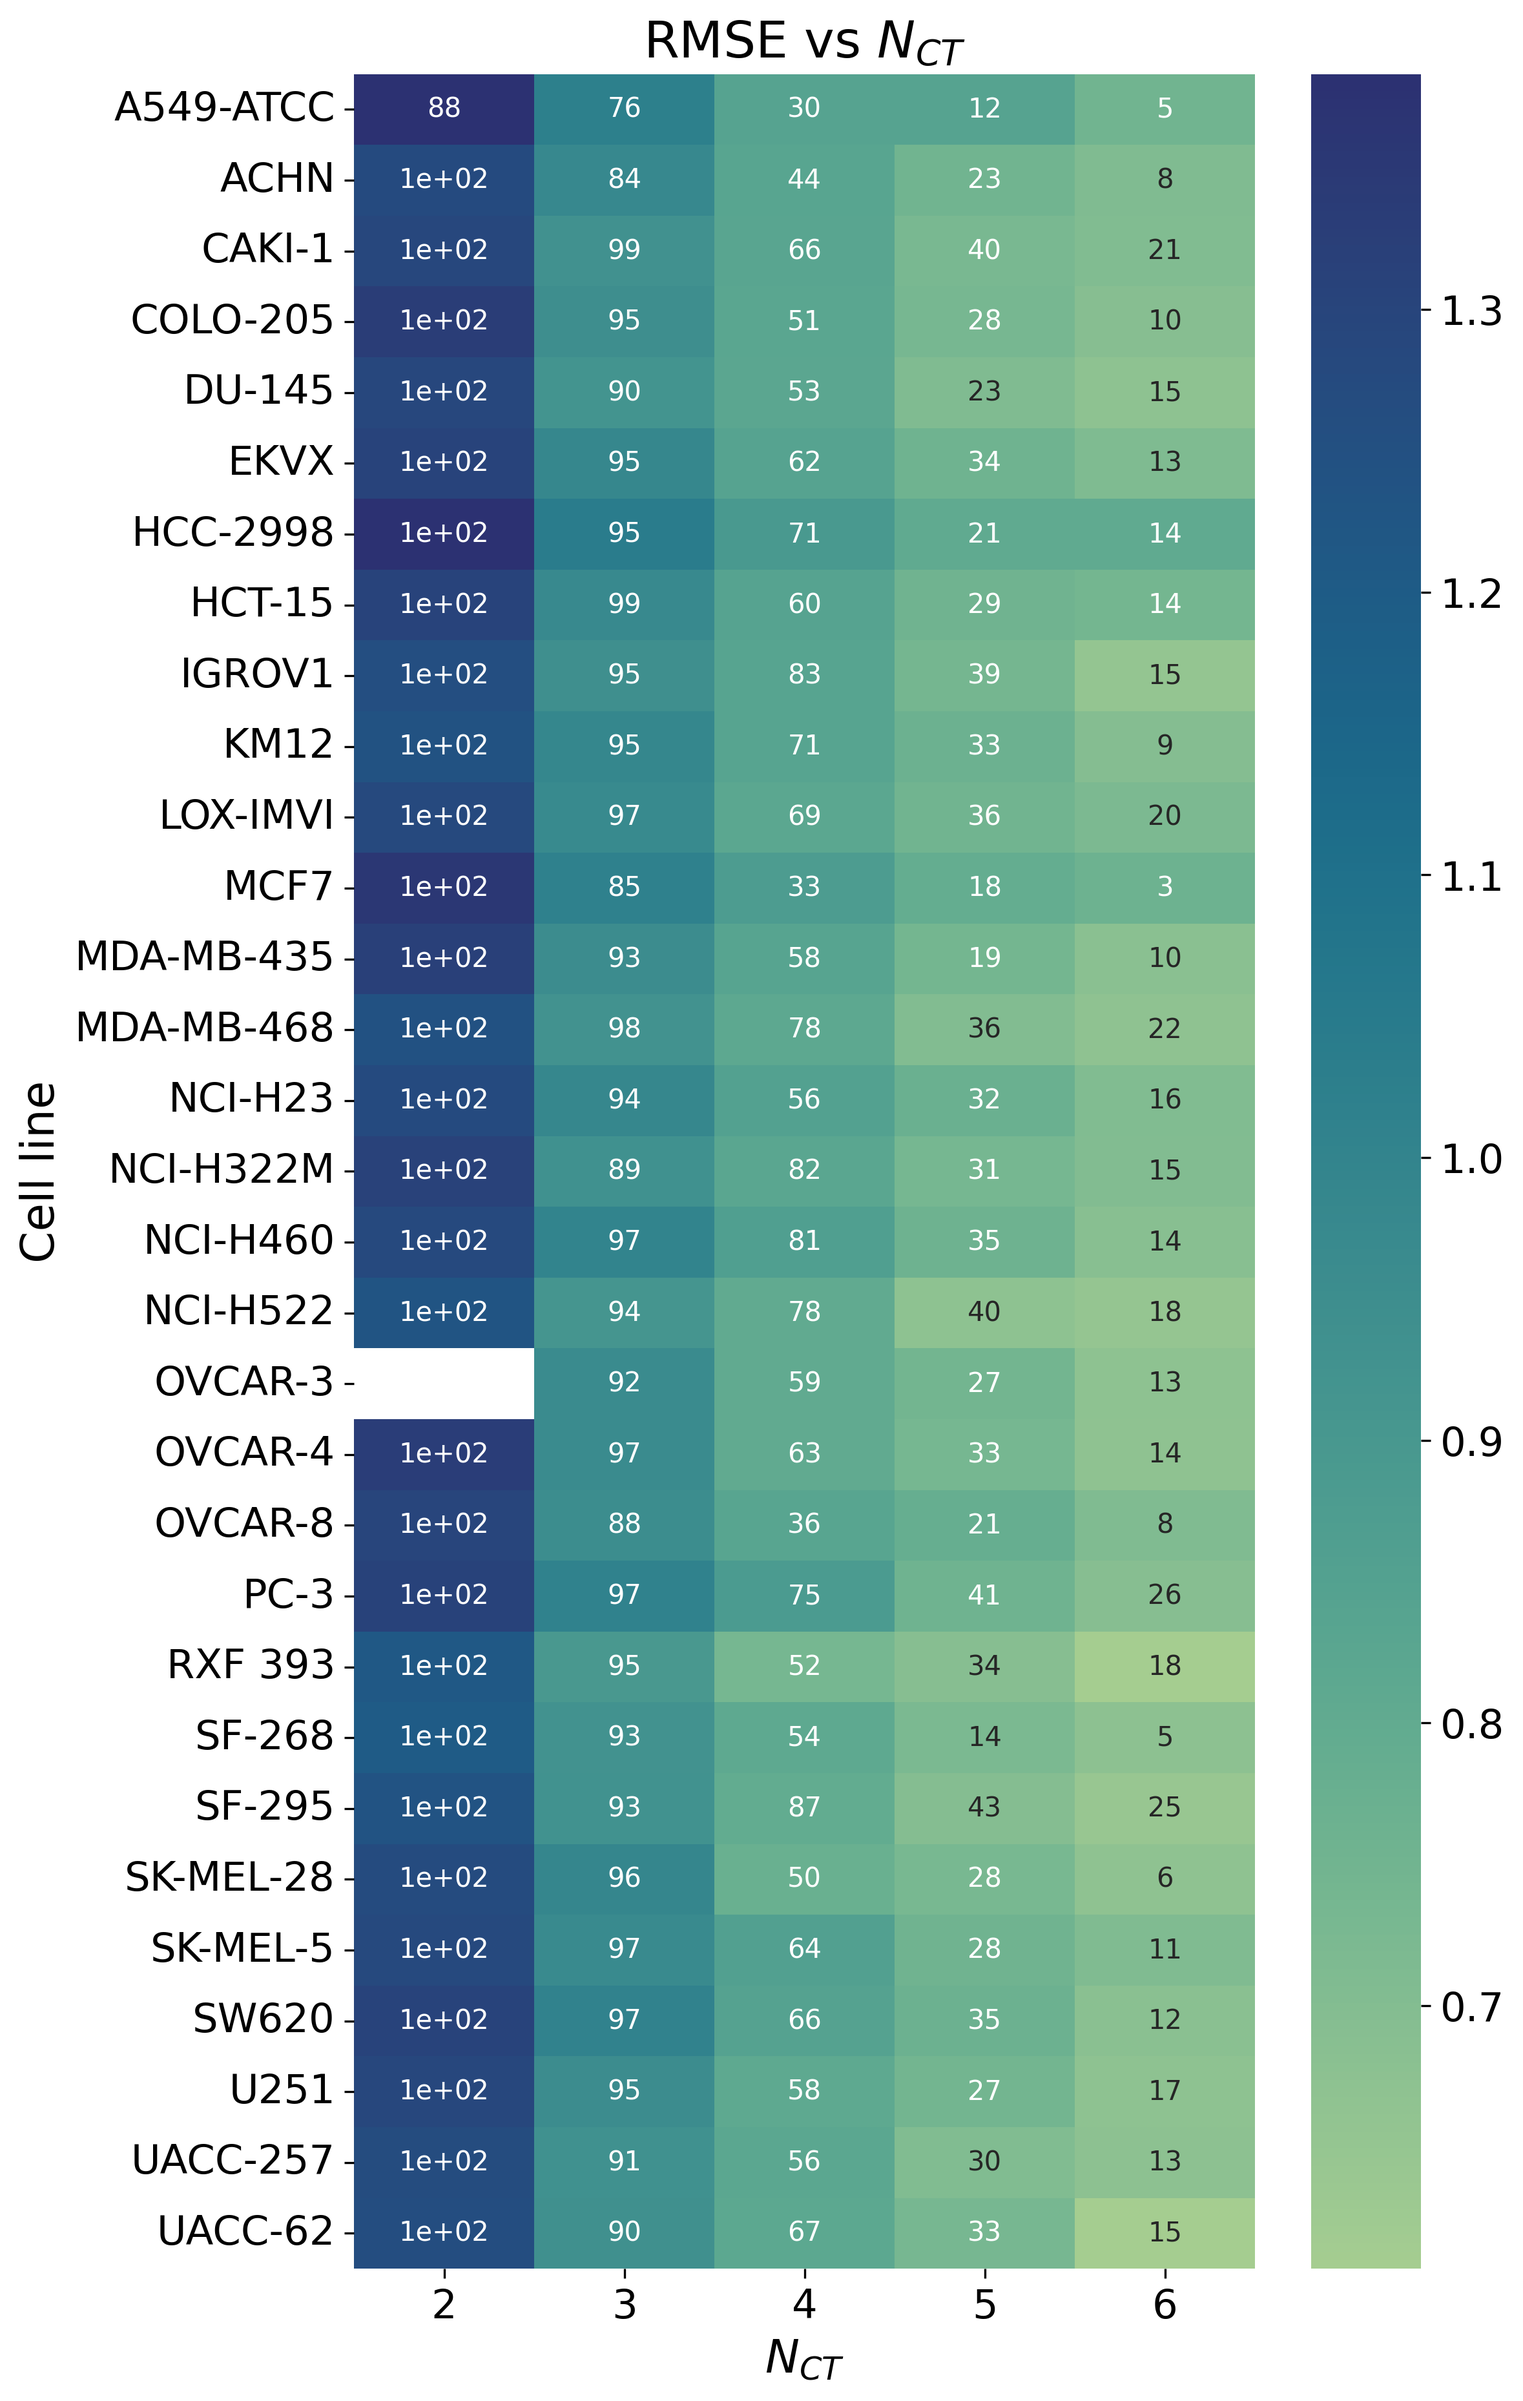
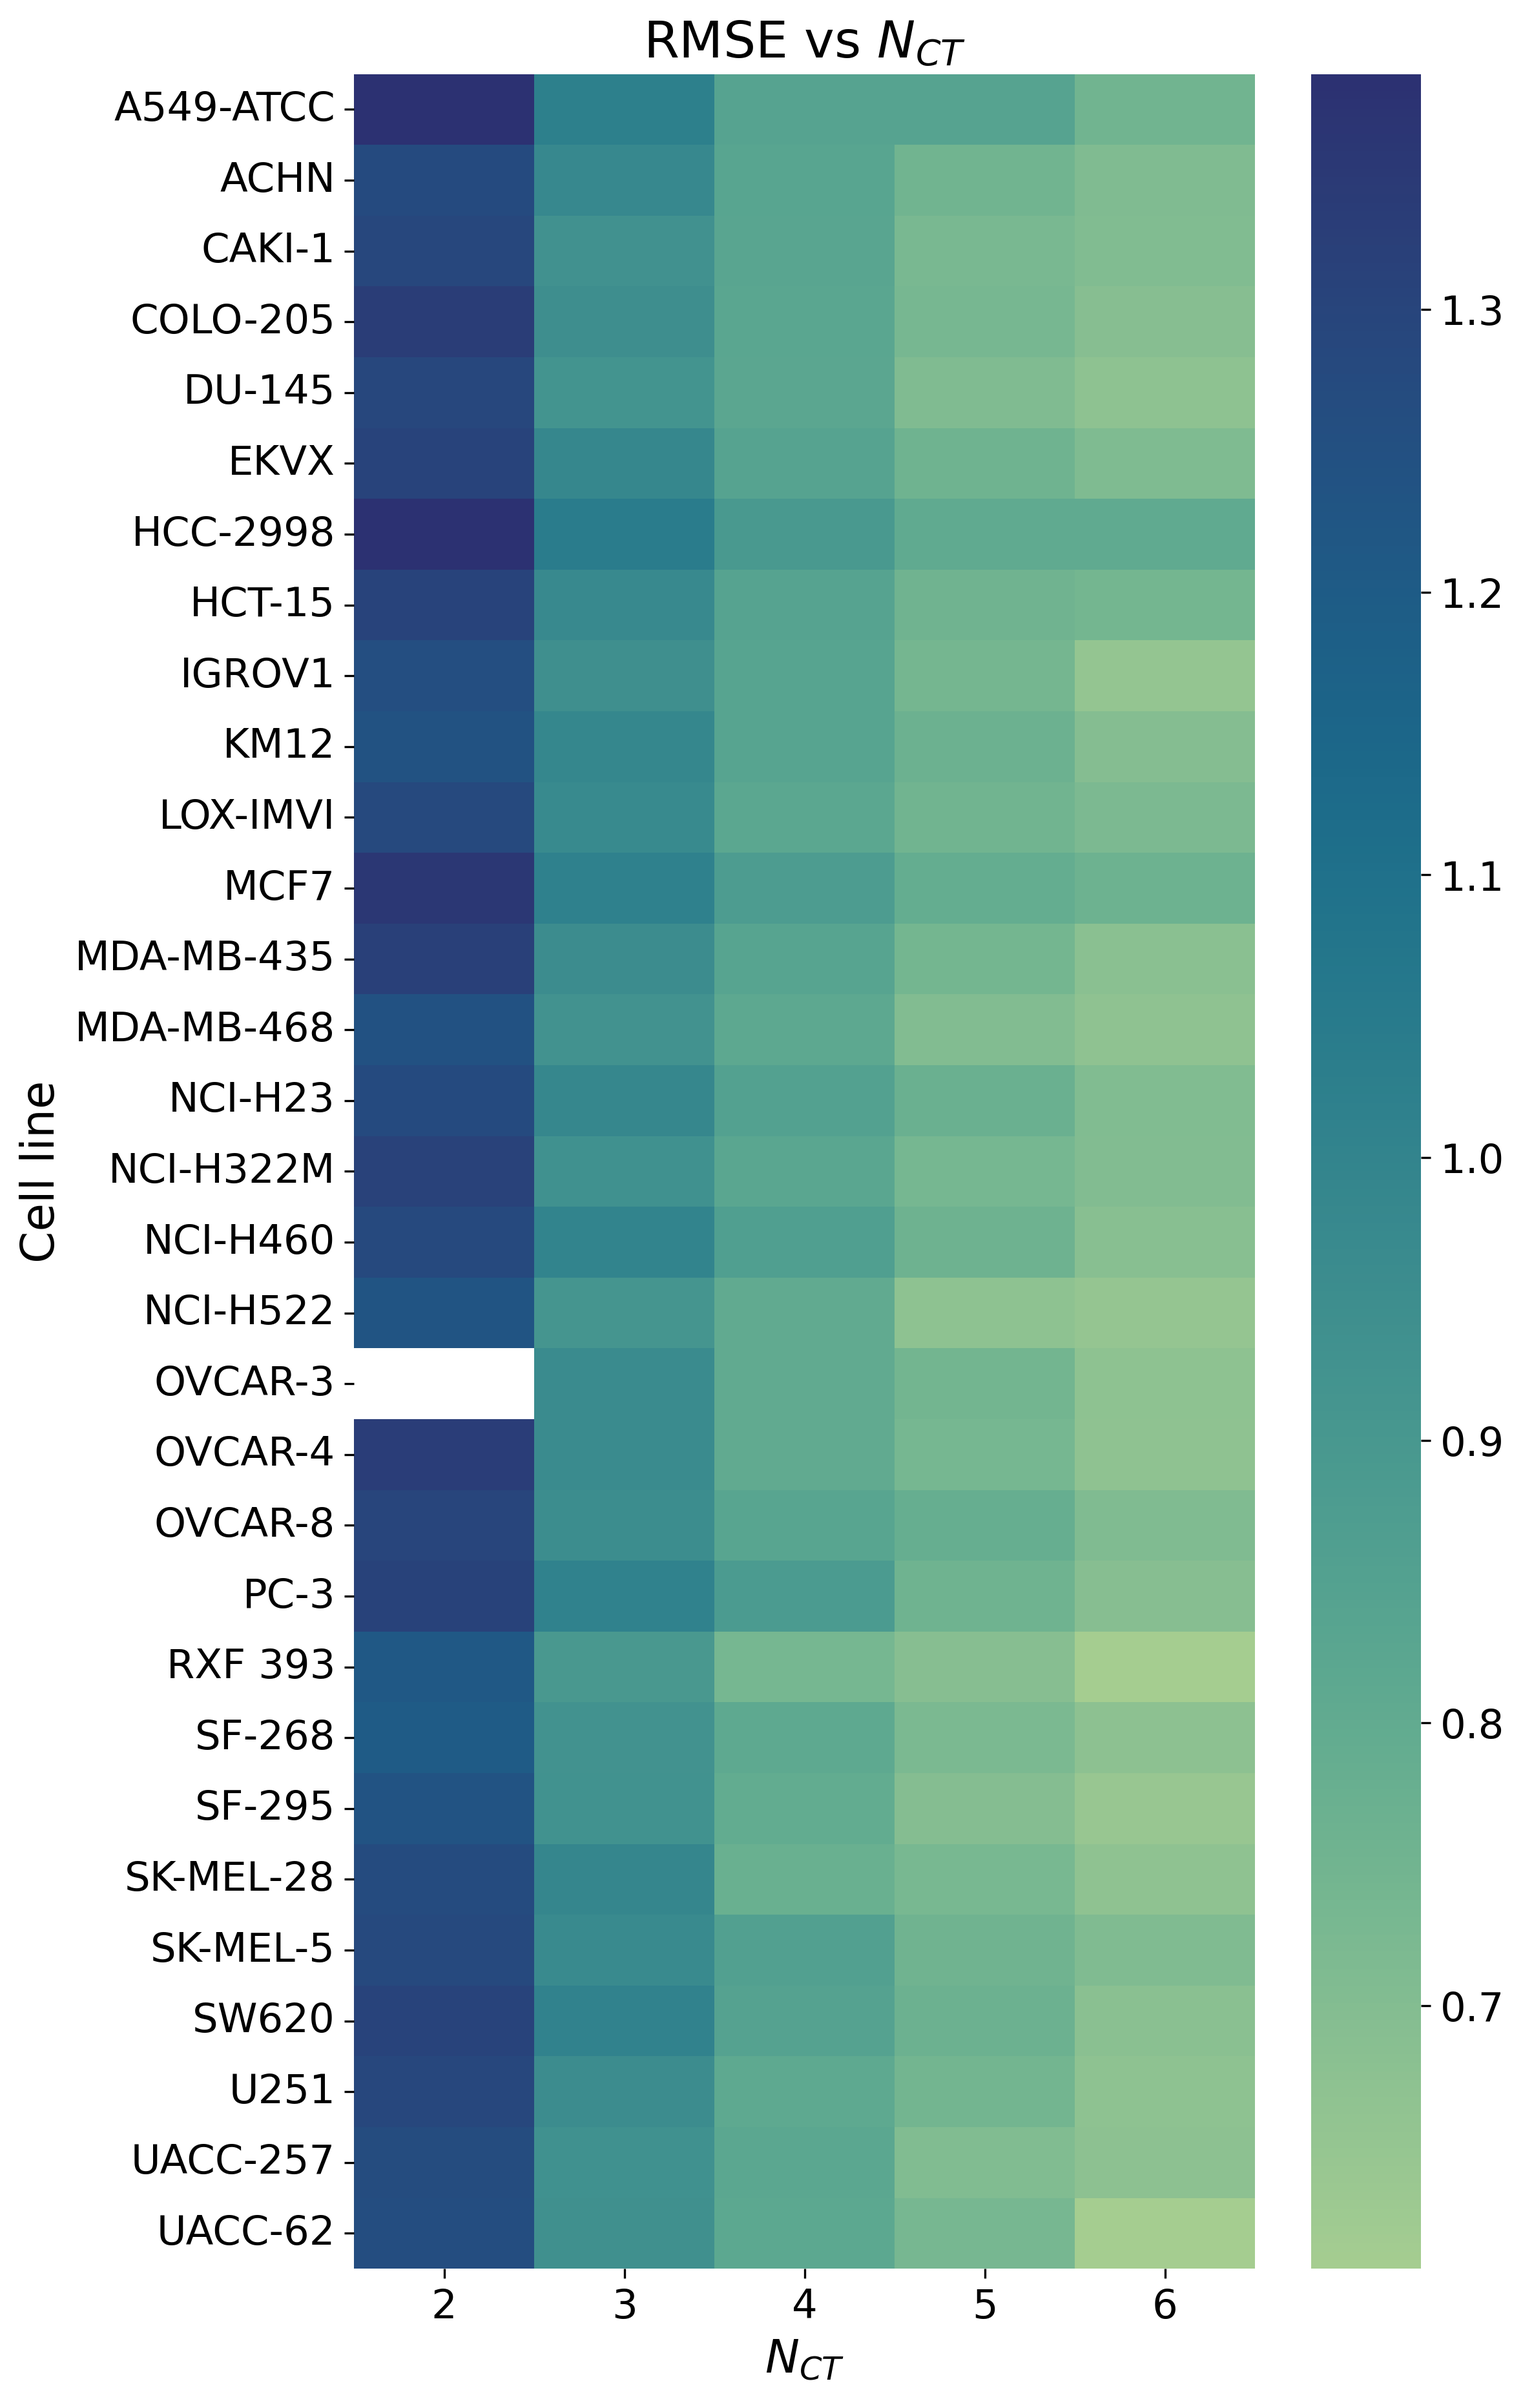
Some changes to Figure 2 and 3

Changed region(s): [[0.2786, 0.2497, 0.3096, 0.3121], [0.2786, 0.8114, 0.3096, 0.8426]]

diff --git a/codes/figure-plan.py b/codes/figure-plan.py
@@ -244,6 +244,54 @@ for n_ct in tqdm(np.arange(2, 7), desc='N_CT: '):
         else:
             plt.show()
 
+#### Pooled pair plots
+rmse_pooled_1ct, rmse_pooled_nct, balance_flag_pooled, rep_num = [[]], [[]], [[]], [[]]
+slope_df, sublinear_cell_lines = pd.read_pickle(home_dir + '/cancer_power_law_stats.pickle')
+for cl in sublinear_cell_lines[sublinear_cell_lines != 'OVCAR-3']:
+    pickle_path = '../raw-output/2-celltypes/no-learn-balanced-net/'+cl
+
+    [balance_arr_1ct, balance_arr_nct, balance_flag_arr, balanced_networks_list,
+                        rmse_arr_1ct, rmse_arr_nct,
+                        ec_pred_arr_1ct, ec_pred_arr_nct,
+                        index_arr_1ct, index_arr_nct,
+                        production_ct_arr_1ct, production_ct_arr_nct] = pd.read_pickle(pickle_path + '/balanced-networks.pickle')
+    rmse_pooled_1ct.append(rmse_arr_1ct)
+    rmse_pooled_nct.append(rmse_arr_nct)
+    balance_flag_pooled.append(balance_flag_arr)
+    rep_num.append(np.arange(1, len(rmse_arr_1ct)+1))
+
+rmse_pooled_1ct = np.array(rmse_pooled_1ct[1:])
+rmse_pooled_nct = np.array(rmse_pooled_nct[1:])
+balance_flag_pooled = np.array(balance_flag_pooled[1:])
+rep_num = np.array(rep_num[1:])
+
+n_rand = len(rmse_arr_1ct)
+df_pooled = pd.DataFrame({'Replicate': np.concatenate([np.arange(1, 3001), np.arange(1, 3001)]).ravel(),
+                'N_CT': np.array([np.ones_like(rmse_pooled_1ct), np.zeros_like(rmse_pooled_1ct)+2]).ravel().astype(int),
+                'Balance': np.concatenate([balance_flag_pooled, balance_flag_pooled]).ravel(),
+                'RMSE': np.concatenate([rmse_pooled_1ct, rmse_pooled_nct]).ravel()})
+
+g, ax = plt.subplots(1, 1, figsize = (3, 5))
+ax = sns.lineplot(data=df_pooled, x='N_CT', y='RMSE',
+                units='Replicate', hue='Balance',
+                palette='coolwarm_r', hue_norm=(0, 1),
+                dashes=False, estimator=None, zorder=1, legend=True)
+ax = sns.scatterplot(data=df_pooled, x='N_CT', y='RMSE',
+                    hue='Balance', palette='coolwarm_r', hue_norm=(0, 1),
+                    edgecolor='face', alpha=0.8, zorder=2, legend=False)
+ax.set_xlabel(r'$N_{CT}$')
+ax.set(xlim=(0.5, 2.5), xticks=[1, 2])
+ax.get_legend().set_title('Balance')
+
+net_state = 'no-learn-balanced-net/'
+figsave_flag = 1
+fig_path = '../figures/2-celltypes/'+net_state
+if figsave_flag:
+    g.figure.savefig(fig_path+'/balance-rmse-comparison-all-cell-lines-pooled.png', dpi=300, bbox_inches='tight')
+    plt.close(g.figure)
+else:
+    plt.show()
+
 # %%
 figsave_flag = 1
 rmse_arr_heatmap = [[]]
@@ -274,8 +322,7 @@ heatmap_df = pd.DataFrame(rmse_arr_heatmap,
                           index=sublinear_cell_lines)
 
 f, ax = plt.subplots(1, 1, figsize=(7.5, 15))
-ax = sns.heatmap(data=heatmap_df, cmap='crest',
-            annot=num_final_heatmap.tolist())
+ax = sns.heatmap(data=heatmap_df, cmap='crest')
 ax.set_xlabel(r'$N_{CT}$')
 ax.set_ylabel('Cell line')
 ax.set_title(r'RMSE vs $N_{CT}$')
@@ -288,14 +335,14 @@ else:
     plt.show()
 
 with sns.axes_style("darkgrid"):
-    g = sns.boxplot(data=heatmap_df, palette='crest')
+    g = sns.lineplot(data=heatmap_df.T, palette='Blues_d', legend=False)
     g.set_xlabel(r'$N_{CT}$')
     g.set_ylabel('RMSE')
     g.set_title('Random networks w/o learning', pad=12)
     g.spines.top.set_visible(False)
     g.spines.right.set_visible(False)
 if figsave_flag:
-    g.figure.savefig('../figures/no-learn-rmse-vs-nct-boxplot.png', dpi=300, bbox_inches='tight')
+    g.figure.savefig('../figures/no-learn-rmse-vs-nct-lineplot.png', dpi=300, bbox_inches='tight')
     plt.close(g.figure)
 else:
     plt.show()
